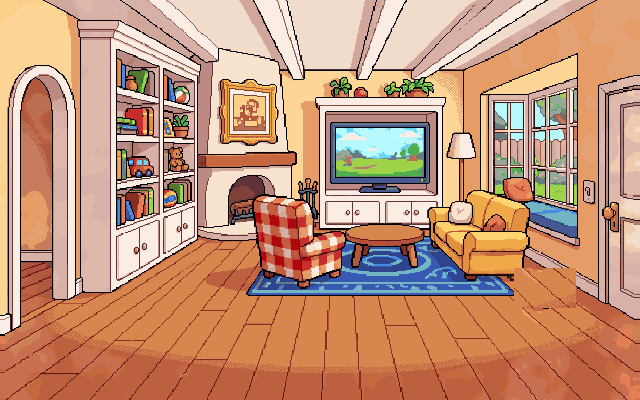
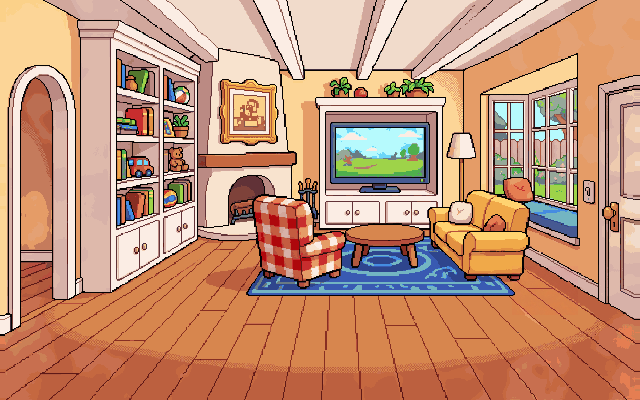
Repair the family room floor under the toy bus
The room prompt asked for a toy bus on the floor, so the render had one
baked in. Painting it out had left a rectangle of floorboards whose
diagonal seams did not line up with the floor around them, reading as a
lighter panel under the pickup.

Inpainted the boards back through it so the bus now sits on unbroken
floor. The sprite was always clean; only the background was wrong.

Claude-Session: https://claude.ai/code/session_016dU4Hm1fqguPe5XdBKdvzZ

Changed region(s): [[0.7812, 0.66, 0.9062, 0.78]]

diff --git a/art/pixellab/family_room.md b/art/pixellab/family_room.md
@@ -26,3 +26,12 @@ ceiling cropped, edges padded). Frame 1 is a programmatic highlight shift, not
 a second render. Cost: 40 generations.
 
 > (global style) A comfortable family room. White built-in bookshelves full of colourful books on the left wall, a fireplace with a gold framed painting above it, a big red and white checked armchair and a yellow couch with cushions, a wide flat television on a white cabinet centre-right, a bay window with a window seat, a round wooden coffee table, a blue rug on a wooden floor, a toy bus on the floor near the right. An open doorway on the far left edge and a door on the far right edge.
+
+## 2026-09-18 — floor patch removed
+
+The prompt asked for "a toy bus on the floor near the right", so the render had one baked in.
+It had been painted out at some point, leaving a rectangle of floorboards at (512,266)-(578,315)
+whose diagonal seams did not line up with the surrounding floor — visible as a lighter panel
+under the `toy_bus` pickup. Repaired with `/inpaint-v3` on a 512x400 crop (x 128-640) and pasted
+back into both frames, which are byte-identical in that rectangle. The pickup sprite itself was
+always clean; only the background was wrong.
